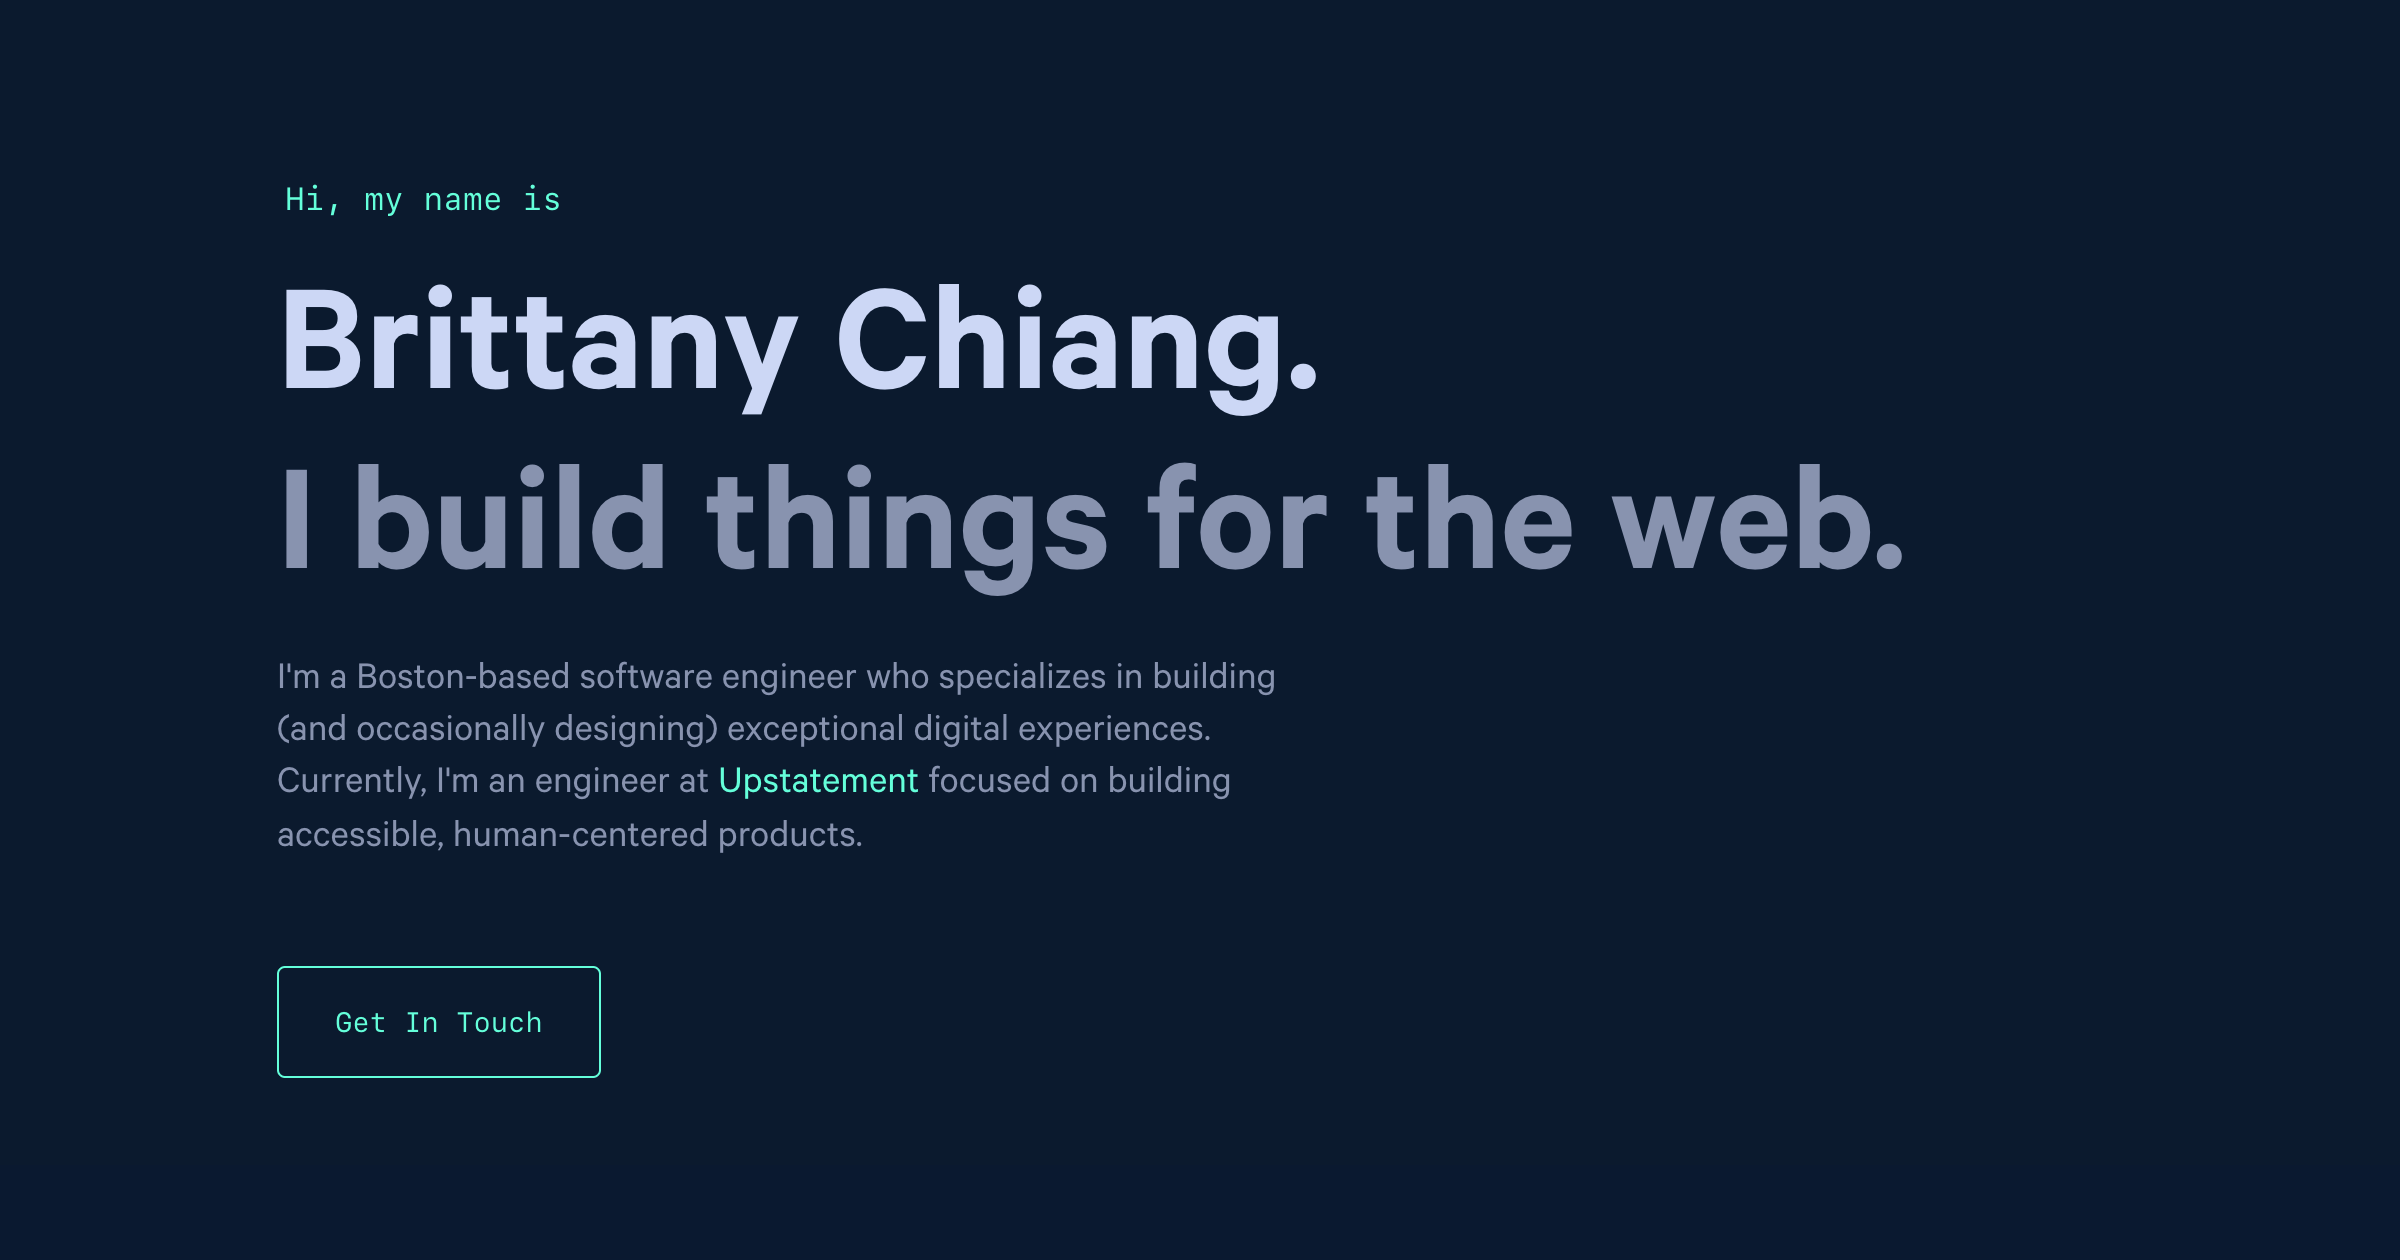
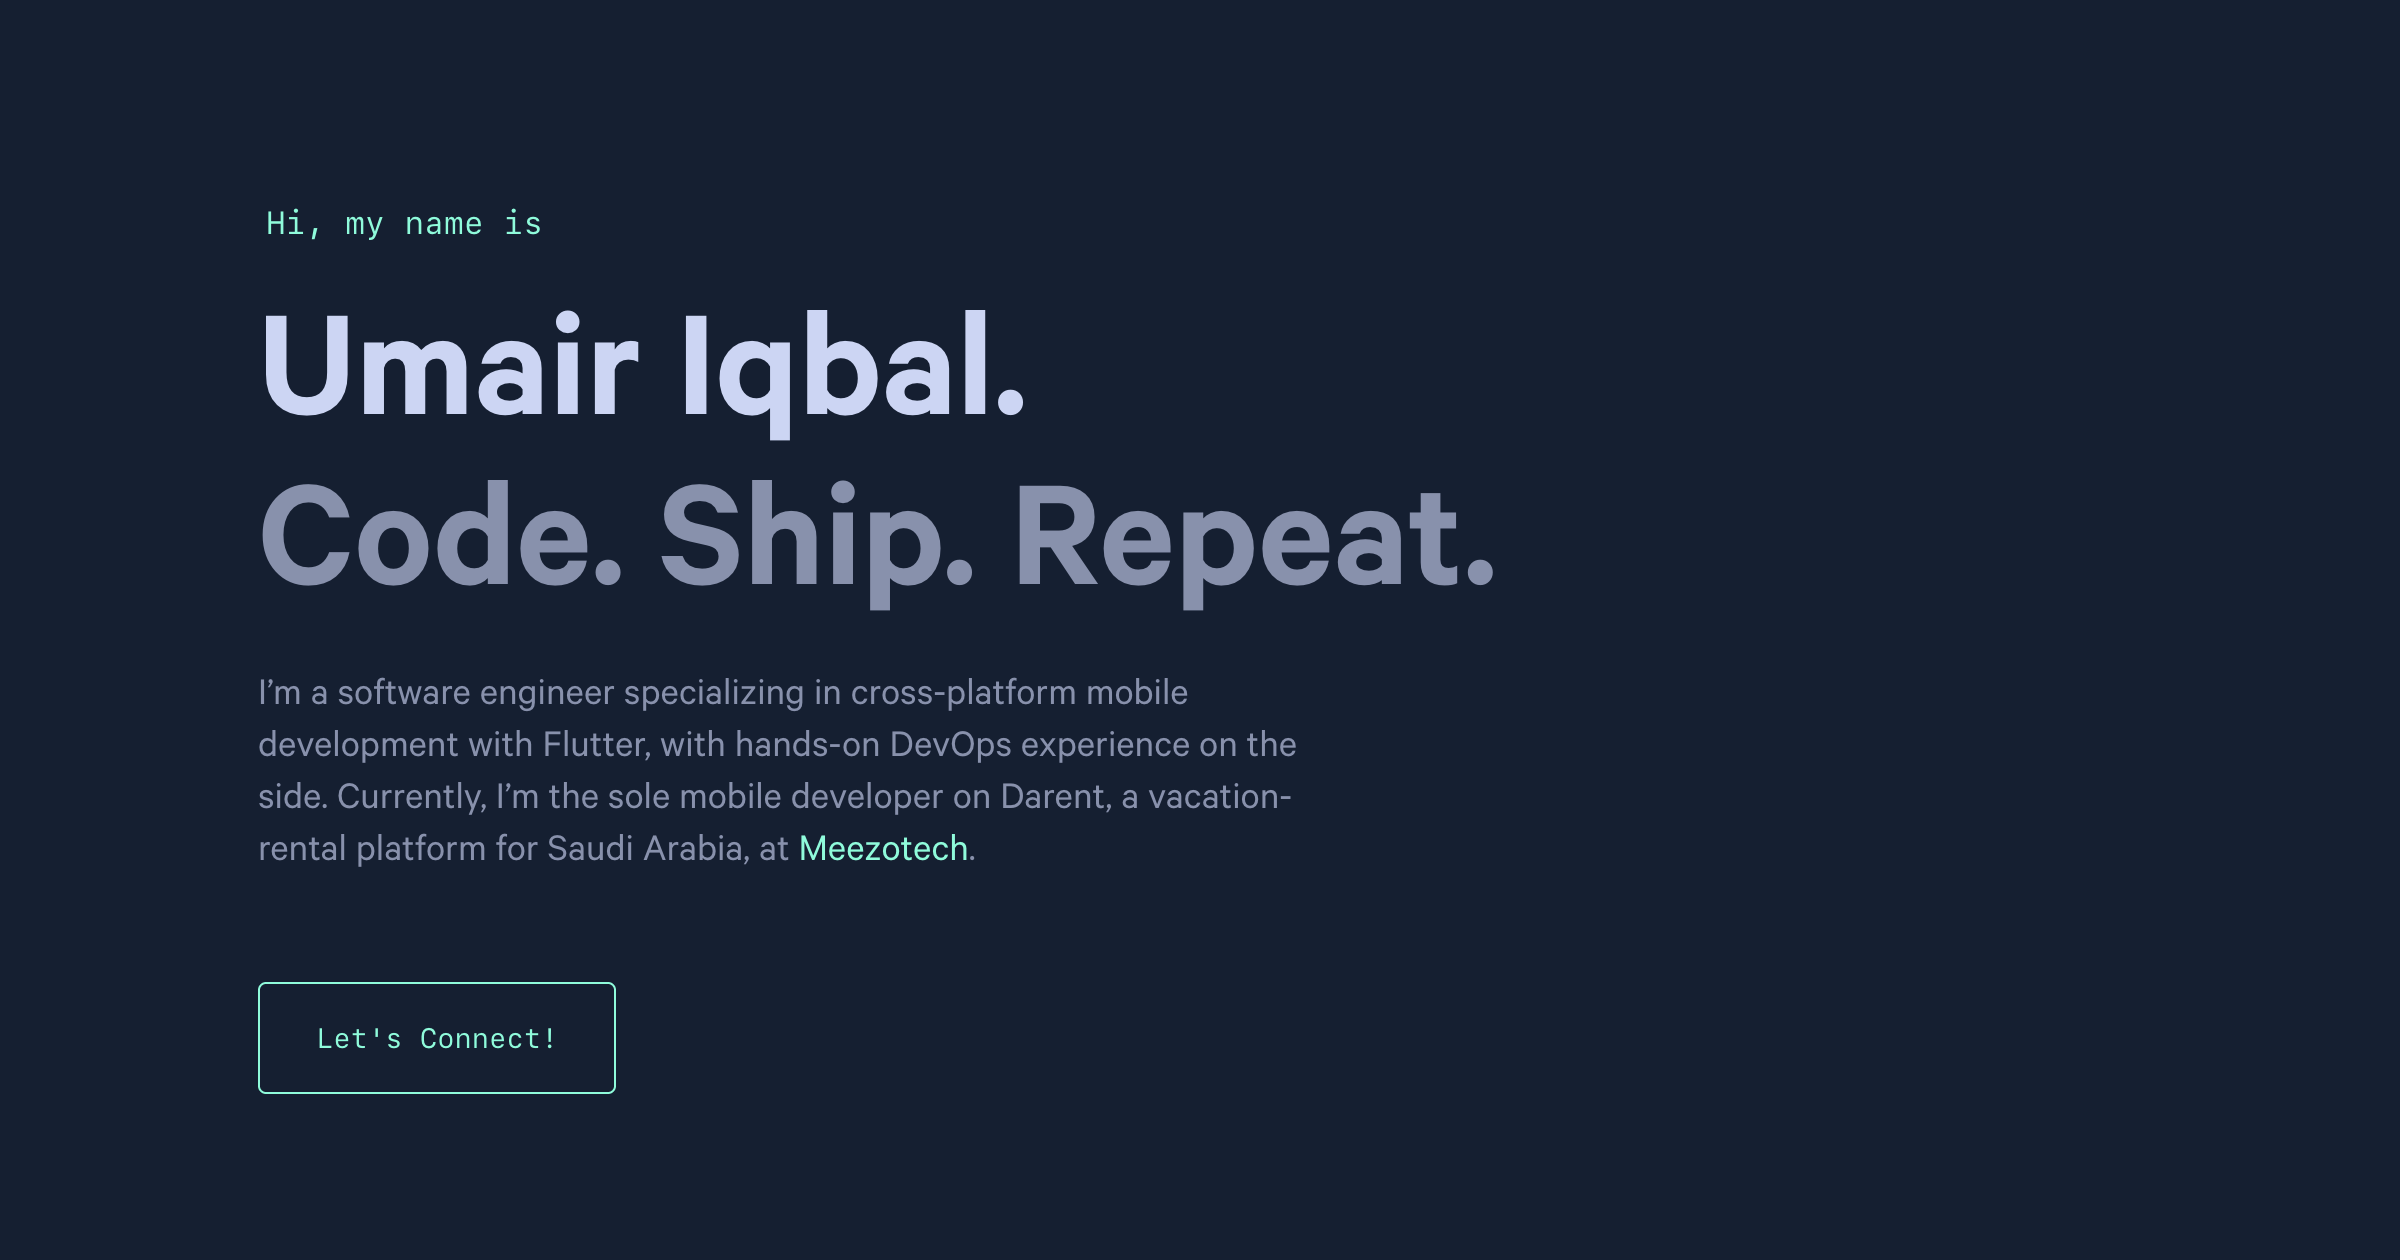
Updated preview image and resume file name

diff --git a/src/components/menu.js b/src/components/menu.js
@@ -267,7 +267,7 @@ const Menu = () => {
             )}
 
             <a
-              href={withPrefix('/resume.pdf')}
+              href={withPrefix('/software_engineer_umair.pdf')}
               className="resume-link"
               target="_blank"
               rel="noopener noreferrer">

diff --git a/src/components/nav.js b/src/components/nav.js
@@ -208,7 +208,7 @@ const Nav = ({ isHome }) => {
   const ResumeLink = (
     <a
       className="resume-button"
-      href={withPrefix('/resume.pdf')}
+      href={withPrefix('/software_engineer_umair.pdf')}
       target="_blank"
       rel="noopener noreferrer">
       Resume
